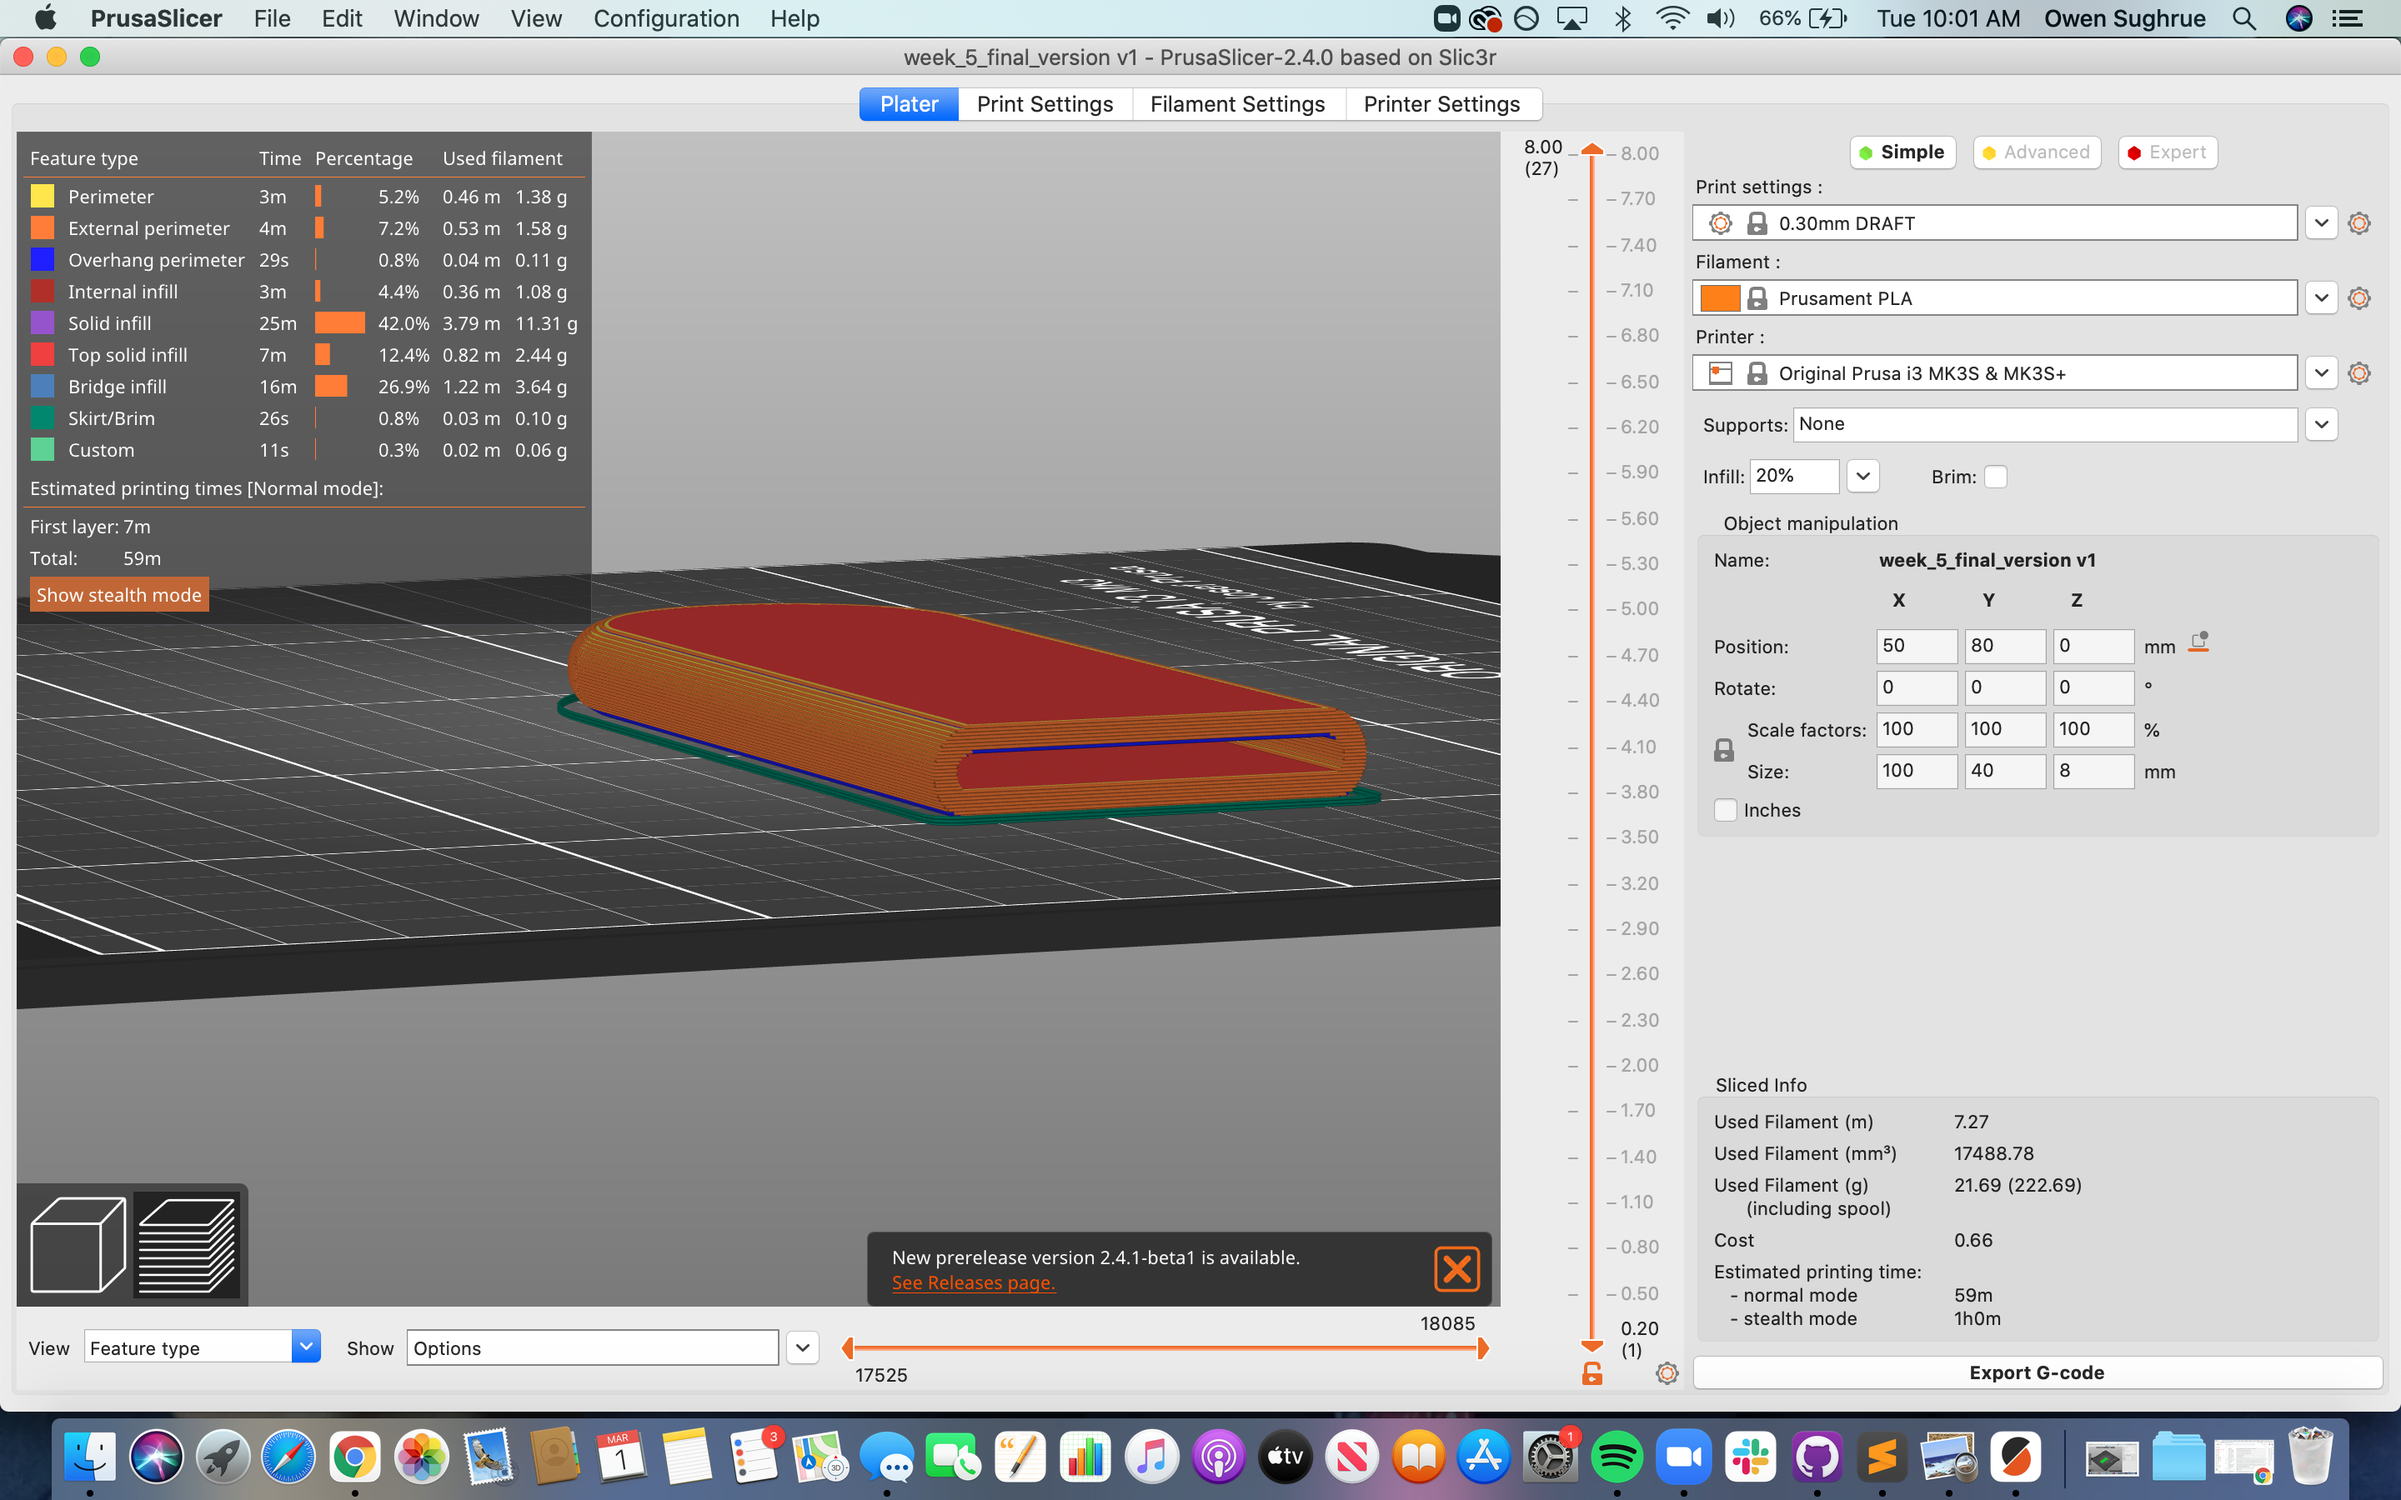
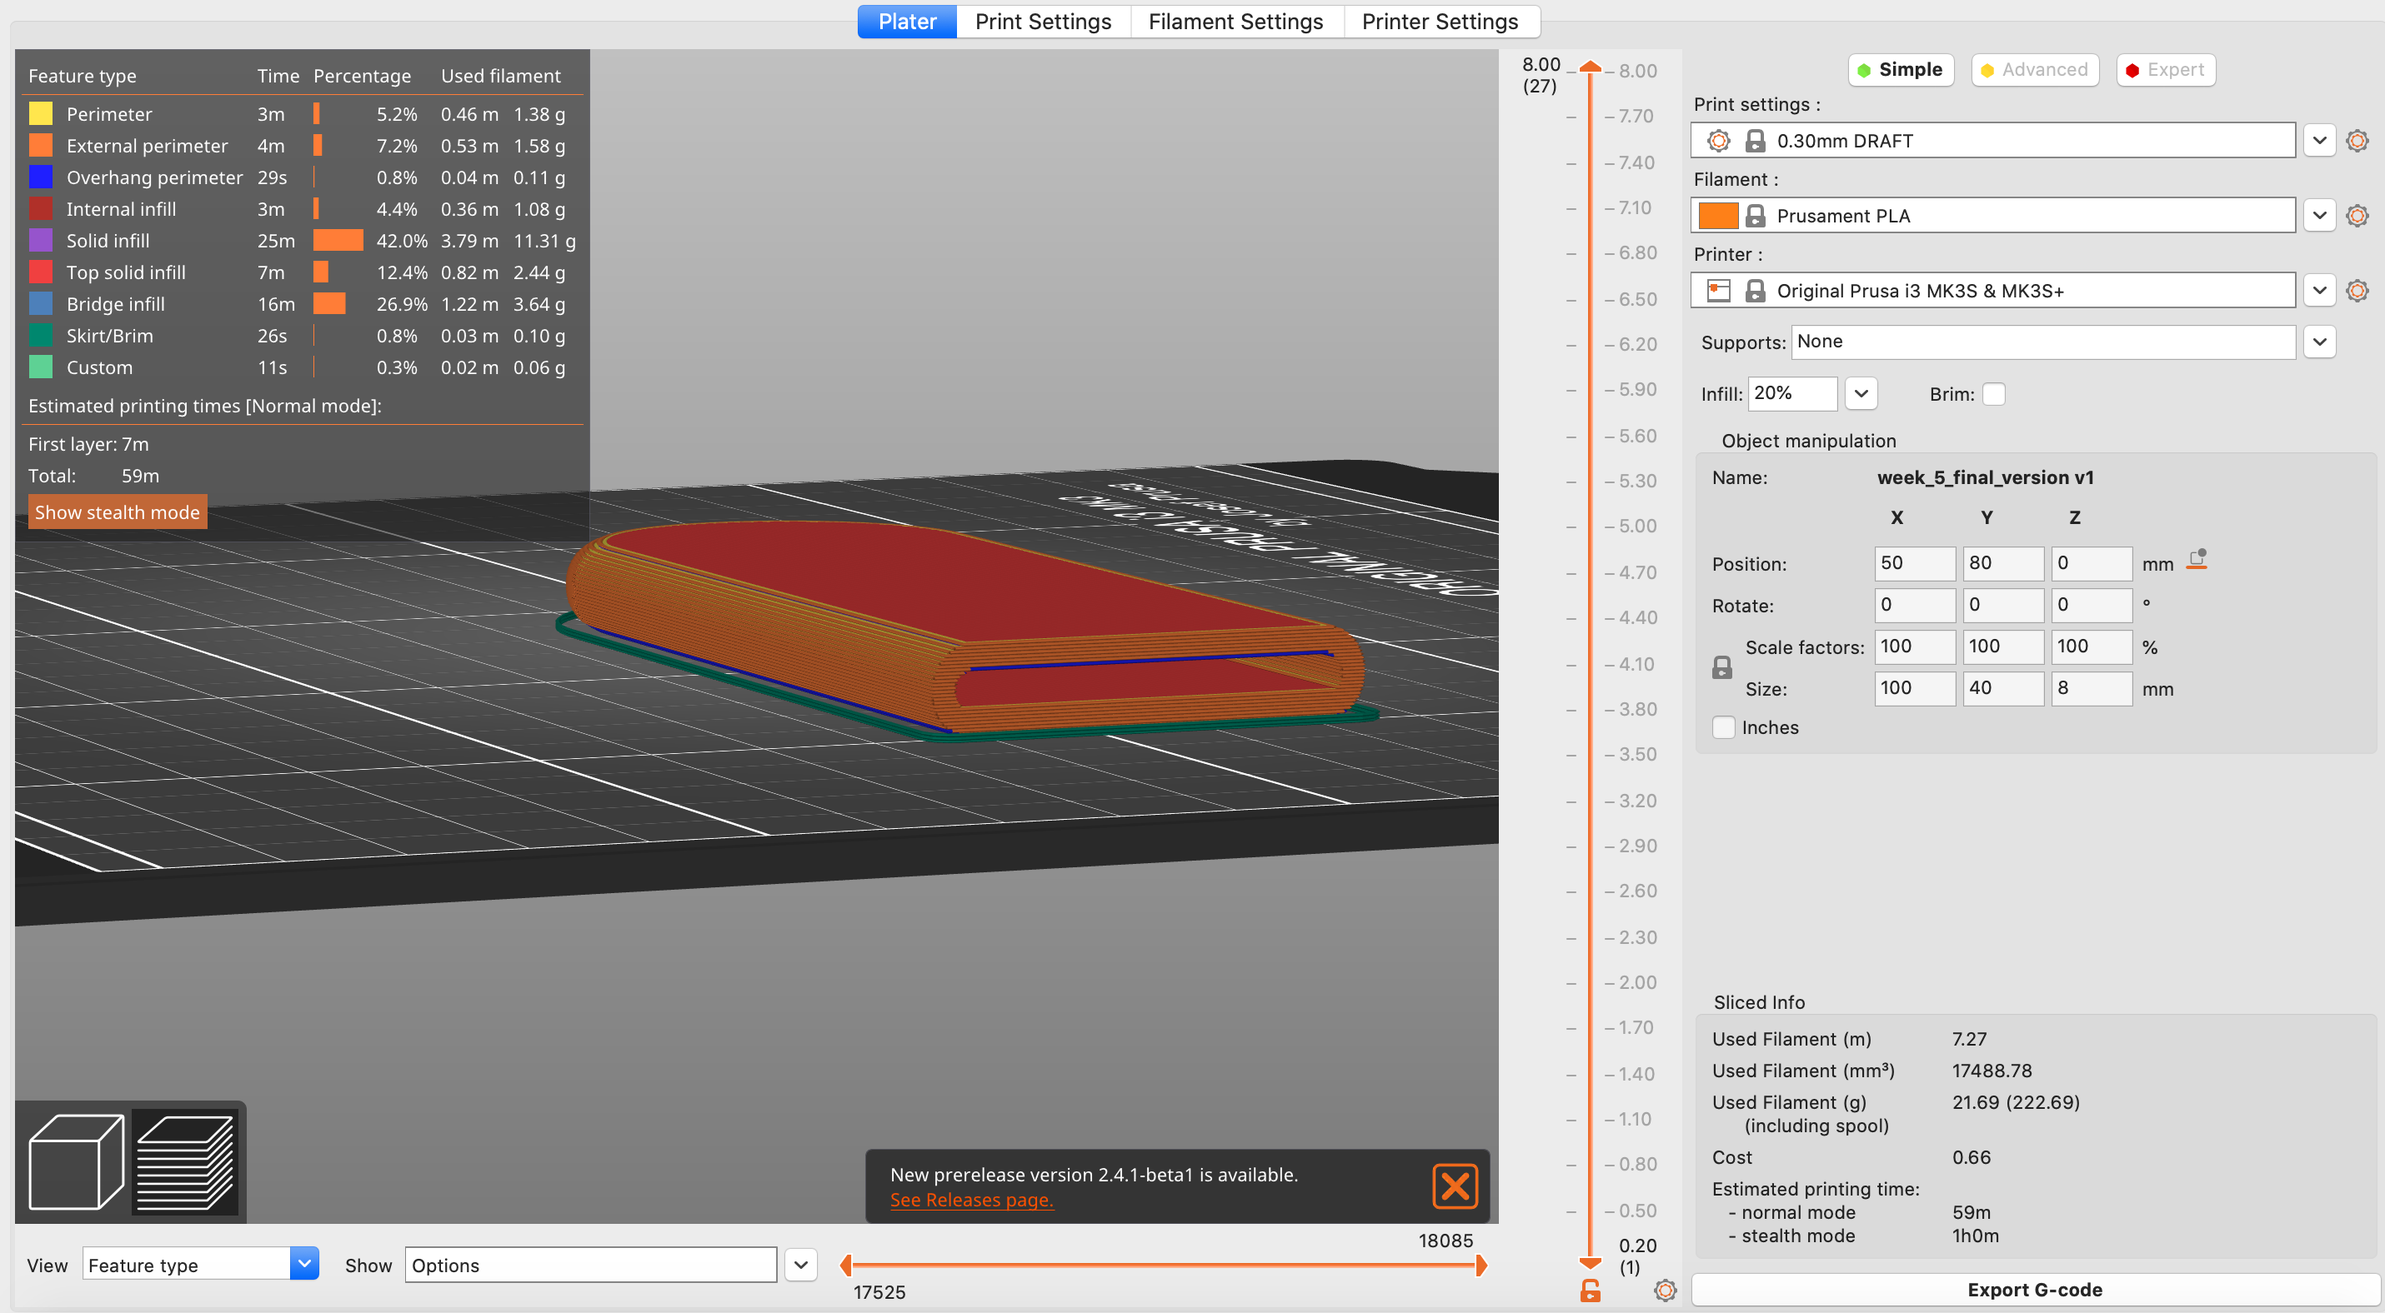
updated website

diff --git a/05_3d_printing/index.html b/05_3d_printing/index.html
@@ -27,11 +27,11 @@
 
   <h1> Week 5: 3D Design and Printing </h1>
 
-  <h2> Sleeve for Final Project </h2>
+  <h2> Sleeve Prototype for Final Project </h2>
 
   <div class="row">
     <div class="col-sm-4">
-      ![Seesaw](./seesaw_general.PNG)
+      ![Printed Sleeve](./printed_sleeve_1.png)
     </div>
   </div>
 
@@ -40,9 +40,12 @@
 For this project, I wanted to prototype a component needed for my final project. For my final project, in which I'm planning to build a device that can spread pizza evenly using a central motor and a wing that spreads the pizza sauce around, I'd like for the motor and the wing to remain clean the whole time so that sauce doesn't get into those parts and potentially damage the motor. One way to ensure these stay clean is to fit a sleeve around both the central motor and the wing. This week, I designed a mini version of the sleeve for the wing.
 
 <h4> Getting Started </h4>
+I first designed the sleeve in Fusion 360, drawing a line and then using the circle-drawing piece to build the rounded end-piece, trimming away the unneeded parts to get the shape I wanted.
+One obstacle for this week was that I wanted the sleeve to be hollow and in a more oblong shape, rather than cylindrical. [This link](https://forums.autodesk.com/t5/fusion-360-design-validate/revolving-around-ellipse/td-p/8982216) helped me understand that the revolve feature revolves objects in a circle. Because I wanted the shape to be hollow in the inside, I decided to extrude the object and then make it hollow using the shell command. This was incredibly helpful! [This link](https://www.youtube.com/watch?v=NNPPcCx2Jqc&t=136s&ab_channel=TheFusionEssentials) helped me learn how to properly use the shell command. Then, I selected the end of the sleeve that I'd use to slide onto the wing of the machine and chose the thickness of the sketch (0.5 mm if I remember correctly) that I wanted. Now, the piece was hollow with an opening at the end. Additionally, once in 3d mode, I used the fillet command to round the edges of the sleeve, mimicking the rounded body of a spoon—what people often use to spread sauce! <br>
+Here is what it looked like in 3d mode in Fusion.
 
-<br>
-I first designed the sleeve in Fusion 360, drawing a line and then using the circle-drawing piece to build the rounded end-piece, trimming away the unneeded parts to get the shape I wanted. Here is what the sketch looked like in 2d (in solid mode in Fusion without the 3-D body).
+These are the pieces in Fusion 360 (both with the body removed in solid mode to see just the 2-D sketch (without the body in solid mode):
+
 <br>
   <div class="row">
     <div class="col-sm-4">
@@ -58,9 +61,8 @@ Here is what the sleeve looked like in 3-D mode.
     </div>
   </div>
 
-Then, I exported the proejct to Prusa to eventually be able to print it. Here is what the project looked like in prusa, with the regular mode on the left and individual layers mode on the right.
+Then, I exported the proejct to Prusa to eventually be able to print it. Here is what the project looked like in prusa, with the regular mode on the top and individual layers mode on the bottom.
 
-<!-- SHOW BOTH PICTURES -->
 <br>
   <div class="row">
     <div class="col-sm-4">
@@ -74,103 +76,37 @@ Then, I exported the proejct to Prusa to eventually be able to print it. Here is
   </div>
 
 
-One thing to note is the size of the filament 
+One thing to note is the size of the filament. For efficiency, I selected the 0.30 DRAFT option for the print settings. This was helpful for lots of reasons: It gave me a print time of 59 minutes (as opposed to something like 6 hours if I were to use one of the smallest filaments!), this setting still gave me a very good prototype of this part, and also helped me to see that I'd like to go with a smaller filament for my final project to try to make the part of the sleeve that would be spreading the sauce around as smooth as possible, to mimic the surface of a spoon.
 
-One obstacle for this week was that I wanted the sleeve to be hollow and in a more oblong shape, rather than cylindrical. [This link](https://forums.autodesk.com/t5/fusion-360-design-validate/revolving-around-ellipse/td-p/8982216) helped me understand that the revolve feature revolves objects in a circle. Because I wanted the shape to be hollow in the inside, I decided to extrude the object and then make it hollow using the shell command. This was incredibly helpful! [This link](https://www.youtube.com/watch?v=NNPPcCx2Jqc&t=136s&ab_channel=TheFusionEssentials) helped me learn how to properly use the shell command. Then, I selected the end of the sleeve that I'd use to slide onto the wing of the machine and chose the thickness of the sketch (0.5 mm if I remember correctly) that I wanted. Now, the piece was hollow with an opening at the end. Additionally, once in 3d mode, I used the fillet command to round the edges of the sleeve, mimicking the rounded body of a spoon—what people often use to spread sauce! <br>
-Here is what it looked like in 3d mode in Fusion.
-
-These are the pieces in Fusion 360:
-
+<h4> First Try </h4>
   <div class="row">
     <div class="col-sm-4">
-      ![Sleeve in 3d Mode](./sleeve_3d_mode_fusion.png)
-    </div>
-  </div>
-  <div class="row">
-    <div class="col-sm-4">
-      ![Sleeve in 3d Mode](./sleeve_3d_mode_fusion_2.png)
+      ![First Try Prototype](./first_try_prototype.png)
     </div>
   </div>
 
-Here you can see how the two pieces fit together nicely. Importantly, given the thickness of the acryllic, it's necessary to hold the motor at a certain angle so that the screws do not hit the motor and can run smoothly.
+Originally, I made my prototype very small because I felt I was more interested in getting a sense of this component rather than making the final one. However, though this try was good in that the print took only 10 minutes, there wasn't quite enough structural integrity for the filament of the top row to stay in tact across the body of the sleeve. You can see the top layer now quite getting across the whole body of the sleeve in the picture below.<br>
+However, good thing that only took 10 minutes and used a small amount of filament! Now, for the second version, I wanted to make the thickness larger. The thickness on the first try was very small, and I wondered if that was part of the issue in the top layer not having enough of a foundation to fully get across the body of the sleeve. Here is what the thickness of the first prototype looked like. You can see how the thickness of the second prototype is much thicker than that of the first.
 <br>
-
-<h4> Programming the Microcontroller </h4>
-
-Now that the motor was attached to the structure, it was time to program the motor to rotate such that the seesaw would move up and down! I drew largely from the code we used in class, which was incredibly helpful.
-
-Here is what my code looks like: <br>
-<br>
-<code>
-// Thank you to the teaching staff of PS70 for providing the foundations of this code! <br>
-// I changed numbersto fit the motor and my structure, but the bulk of this code comes from our class website. <br>
-<br>
-const int A1A = 3;  // define pin 3 for A-1A (PWM Speed) <br>
-const int A1B = 4;  // define pin 4 for A-1B (direction) <br>
-<br>
-void setup() { <br>
-  pinMode(A1A, OUTPUT);     // specify these pins as outputs <br>
-  pinMode(A1B, OUTPUT); <br>
-  analogWrite(A1A, 0);   // start with the motors off <br>
-  digitalWrite(A1B, LOW); <br>
-} <br>
-<br>
-void loop() { <br>
-  // start the motor at a low speed <br>
-  analogWrite(A1A, 255);  <br>
-  digitalWrite(A1B, LOW); <br>
-  delay(4000); // allow the motor to run for 4 seconds <br>
-<br>
-  // stop the motor <br>
-  analogWrite(A1A, 0);   // setting both pins LOW stops the motor <br>
-  delay(1500);              // keep the motor off for 2 seconds <br>
-<br>
-  // start the motor at a low speed in the other direction <br>
-  analogWrite(A1A, 0);  <br>
-  digitalWrite(A1B, HIGH); <br>
-  delay(4000);              // allow the motor to run for 4 seconds <br>
-<br>
-  // stop the motor <br>
-  analogWrite(A1A, 0);   // setting both pins LOW stops the motor <br>
-  digitalWrite(A1B, LOW); <br>
-  delay(1500);  // keep the motor off for 2 seconds <br>
-}<br>
-</code>
-
-Thanks to [this link](http://web.simmons.edu/~grabiner/comm244/weekfour/code-test.html#:~:text=You%20can%20include%20code%20examples,code%20as%20what%20it%20is.) for help with showing code as <code> code</code> in html.
-
-The comments are very helpful, but the first two lines of code ensure that pin 3 of the microcontroller is connected to A-1A of the L9110 and pin for is connected to A-1B of the L9110.
-The next few lines of code, which define pins A-1A and A-1B as outputs, ensure that those pins will be doing what the Arduino tells them to do.
-Starting with A-1A at 0 (as A-1B is set to LOW) ensures that the motor is off to start.
-The next batch of code ensures that the motor is running at full power (the 255 number illustrates that) for 4 seconds (the delay(4000)) line runs this for 4000 milliseconds.
-Next, setting A-1A to 0 gives no power to the motor, stopping it for 1500 milliseconds.
-Then, to reverse direction, we set digitalWrite for A-1B to HIGH and want to move the motor at full power in the other direction. Now, though, because A-1B is set to HIGH, we put analogWrite for A-1A to 0 (255-255) and delay (4000) to run the motor for 4000 milliseconds.
-Finally, to stop the motor, we set digitalWrite for A-1B back to LOW and analogWrite for A-1A to 0, which will give no power to the motor. We set delay (1500) to run the motor for 1500 milliseconds. After this process is complete, the loop continues! (Thanks to [this link](https://www.circuitbasics.com/using-loops-in-arduino-programming/#:~:text=Loops%20are%20used%20to%20control,an%20iteration%20of%20the%20loop.) for help with understanding that loops continue over and over).
-
-<h4> Connecting the Wires from the L9110 to the Microcontroller to Arduino </h4>
-
-To really make the seesaw work, it was important to connect the wires! Like the code explains, I connected the VCC port of the L9110 to the 5V port in the microcontroller, the GND port of the L9110 to the GND port of the microcontroller, the A-1A port of the L9110 to the 3 port of the microcontroller, and the A-1B port of the L9110 to the 4 port of the microcontroller.
-
   <div class="row">
     <div class="col-sm-4">
-      ![Motor Components](./motor_components.png)
+      ![First Try Prototype Thickness](./first_try_width.png)
     </div>
   </div>
 
-After connecting the L9110 to the Micro controller to my computer (the power source), we can see the seesaw work!
+<h4> Scanning Something </h4>
+For this week's scanning assignment, I decided to scan my winter hat. I used the Polycam app to scan my hat and it came out pretty well. I rotated around the hat, with the app taking several photos or "captures" to get a sense of the size of the object. Here is a picture of how the hat came out after the scans. Also, [here](https://poly.cam/capture/81BB841C-AFAA-41DA-9731-49C2DCA207D8) is the link to the poly.cam capture of the hat.
 <br>
-
-
-
-<video width="720" height="480" controls>
-  <source src="seesaw_moving_final.mov" type="video/mp4">
-</video>
-
-Given the strength of the motor required to move the seesaw, I found it necessary to hold the motor very tightly and in a position where the screws and the nuts do not get in the way of the motor and foundation pieces, respectively.
-There are probably more fun seesaws to use on most playgrounds! :)
+  <div class="row">
+    <div class="col-sm-4">
+      ![Polycam Winter Hat Photo](./scanned_hat.png)
+    </div>
+  </div>
 
 
 <h4> Helpful Links </h4>
+
+Helped me better understand revolving in Fusion 360: https://forums.autodesk.com/t5/fusion-360-design-validate/revolving-around-ellipse/td-p/8982216
 
 Helped me with the shell function in Fusion 360: https://www.youtube.com/watch?v=NNPPcCx2Jqc&t=136s&ab_channel=TheFusionEssentials
 
